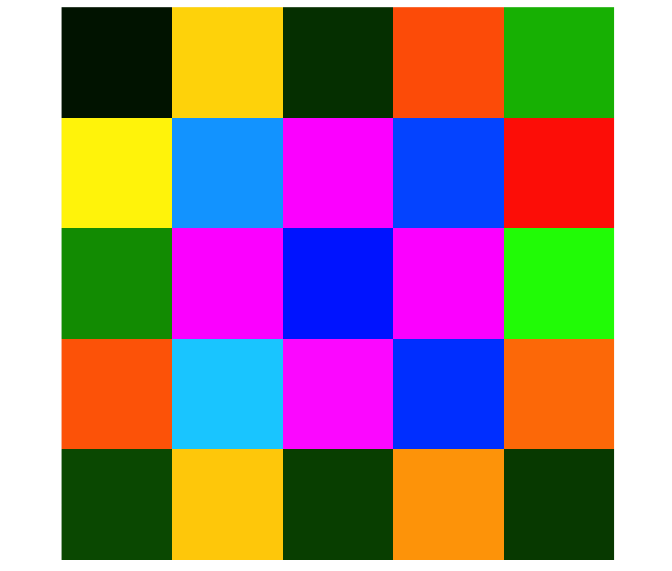
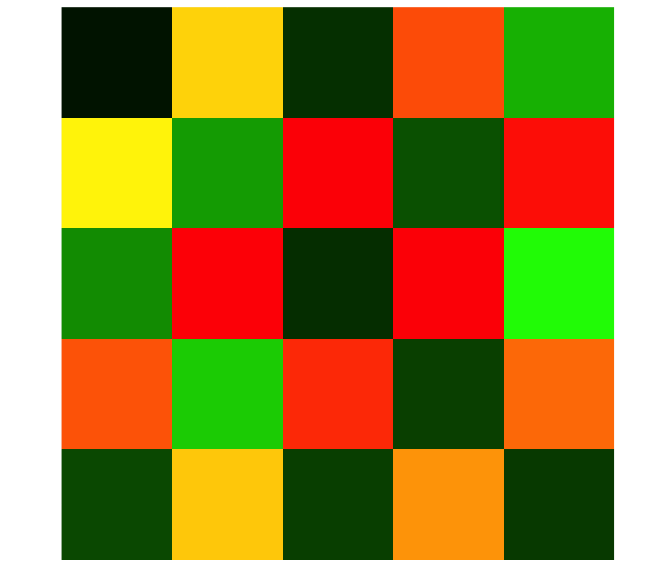
update README.Rmd

Changed region(s): [[0.25, 0.2084, 0.75, 0.8039]]

diff --git a/README.md b/README.md
@@ -50,7 +50,7 @@ plot_array2d(sq5, title = "square", title_size = 54)
 ``` r
 plot_array2d(list(ch5, sq5))
 plot_array2d(list(ch5, o5, sq5))
-plot_array2d(list(ch5, r5, sq5))
+plot_array2d(list(ch5, r5, z5))
 
 d5 = rlang::duplicate(z5)
 d5[1, 1] = 1
